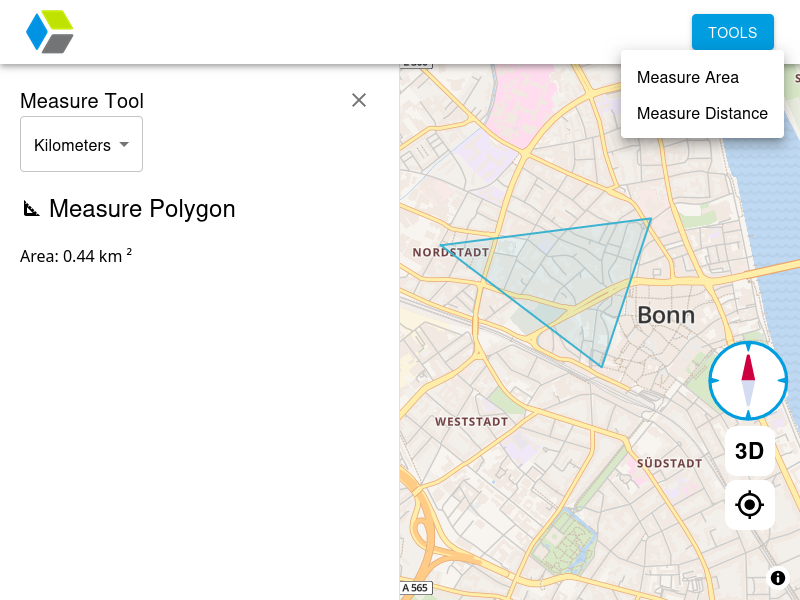
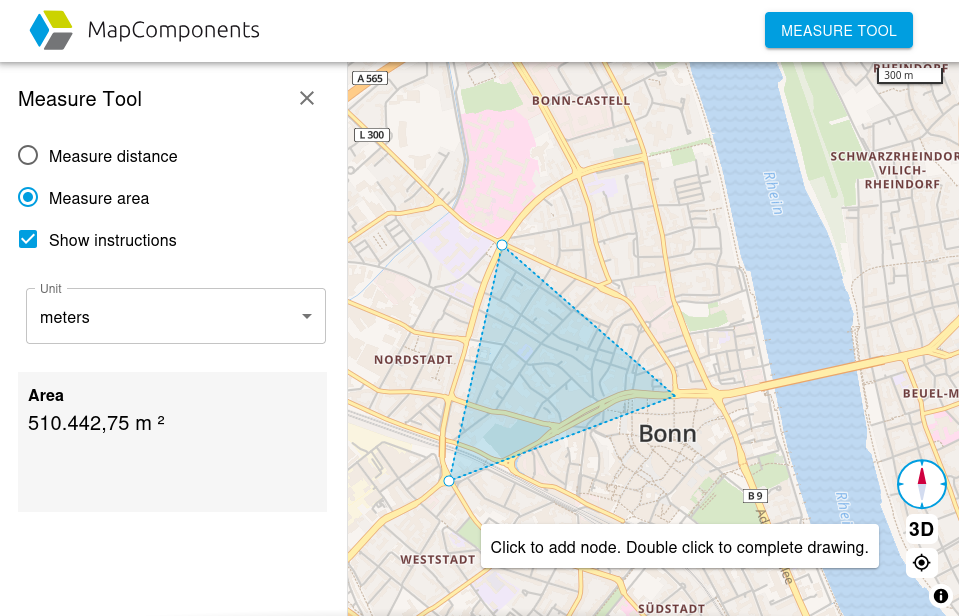
Design/ml measure tool (#207)

diff --git a/src/components/MlMeasureTool/MlMeasureTool.stories.tsx b/src/components/MlMeasureTool/MlMeasureTool.stories.tsx
@@ -254,16 +254,18 @@ const CatalogueSidebar: React.FC<CatalogueSidebarProps> = ({ openSidebar, setOpe
 				<Paper
 					sx={{
 						position: 'fixed',
-						top: '110px',
-						right: '20px',
-						backgroundColor: '#f6f6f6',
-						border: '2px solid #000000',
+						bottom: '8%',
+						left: '50%',
+						borderColor: theme.palette.mode === 'dark' ? '#313131' : '#f6f6f6',
 						padding: '10px',
 						zIndex: 101,
-						elevation: 3,
 					}}
 				>
-					<Typography variant="body1" align="center">
+					<Typography
+						variant="body1"
+						align="center"
+						sx={{ color: theme.palette.mode === 'dark' ? '#ffffff' : '#000000' }}
+					>
 						{getInstructionText()}
 					</Typography>
 				</Paper>
